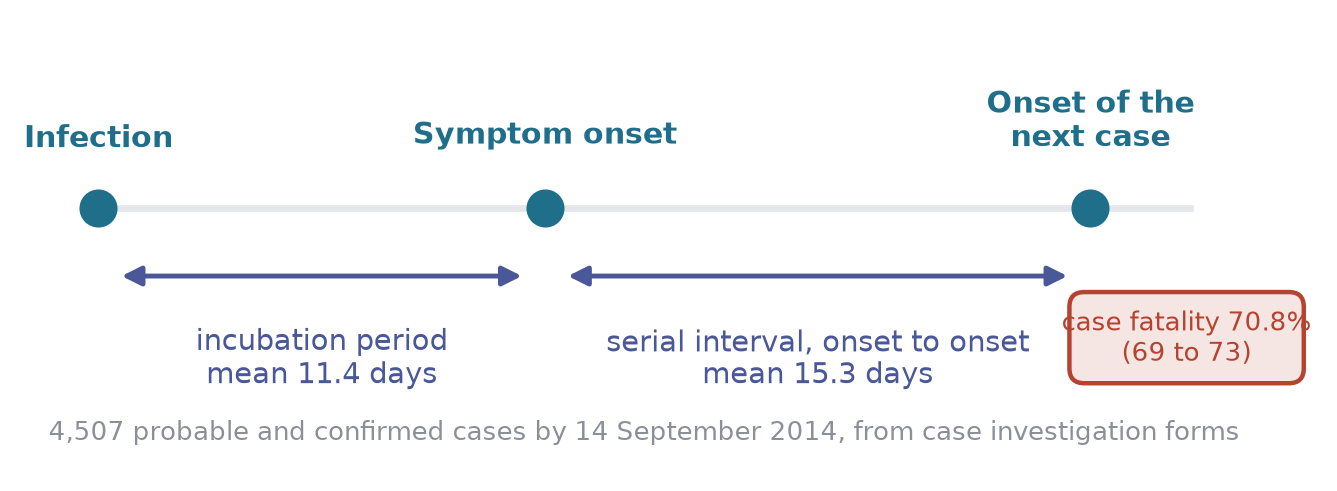
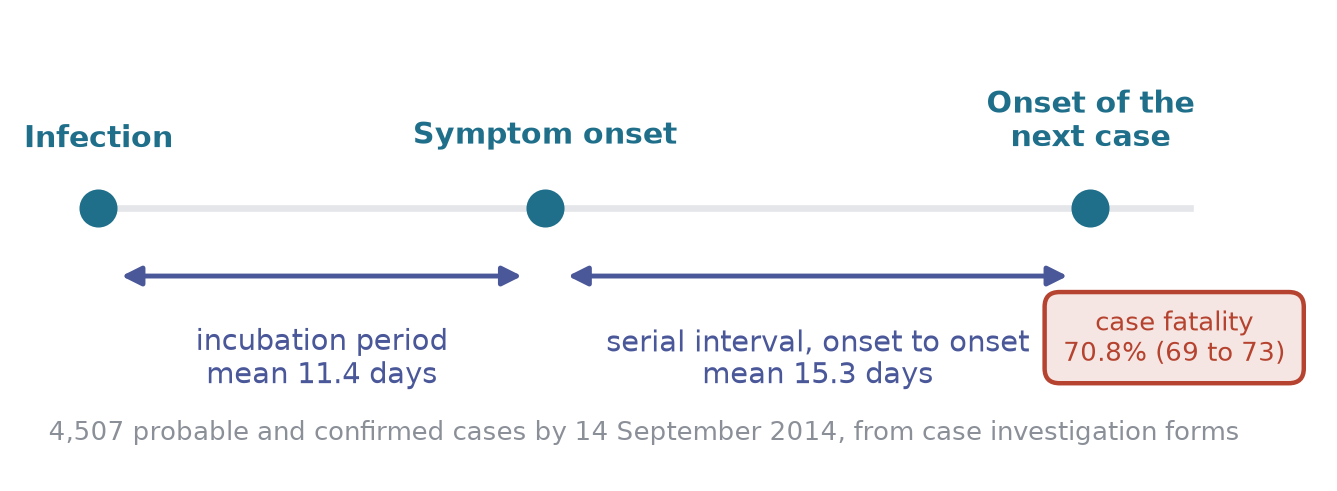
fix: widen the case fatality box on the Ebola delays figure

Changed region(s): [[0.7666, 0.5804, 0.9813, 0.7943]]

diff --git a/notes/k1-report.md b/notes/k1-report.md
@@ -20,6 +20,6 @@ File: `keynote/_partials/01-ten-years.qmd`. Not committed.
 - `./scripts/lint.sh` reports nothing in this partial. Its failures are all in the other two partials.
 - llmisms greps: the rule-of-three grep hits are author lists and data streams; the colon hit is his quote line. Nothing changed.
 
-## Left alone
+## Follow-up
 
-- The case fatality box in `keynote-ebola-delays.png` clips its text slightly at the right edge. Not in the TODOs; `scripts/keynote-schematics.py` if wanted.
+- The case fatality box in `keynote-ebola-delays.png` clipped its text. Widened the box and moved the percentage to the second line in `scripts/keynote-schematics.py`, regenerated that figure only, re-rendered and checked slide 7 at 1920x1080.
